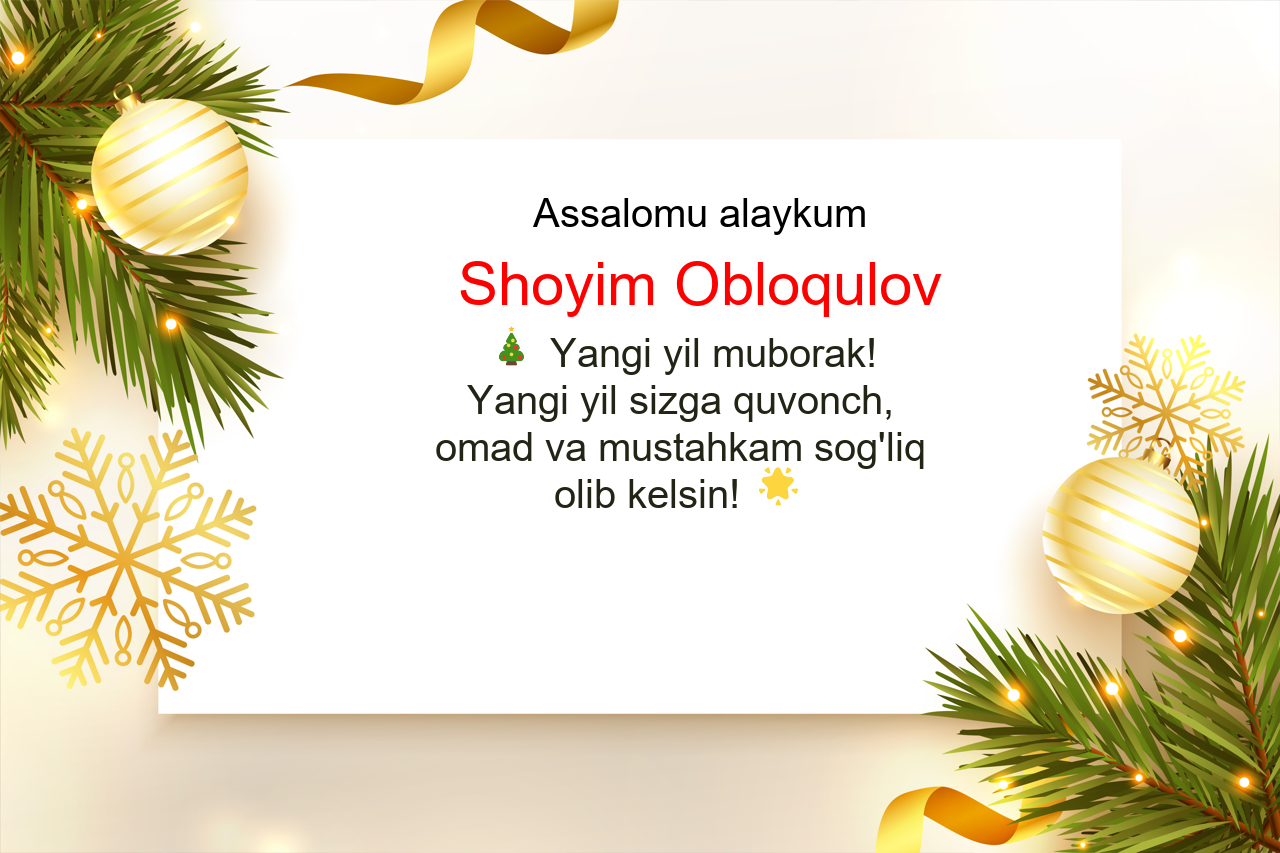
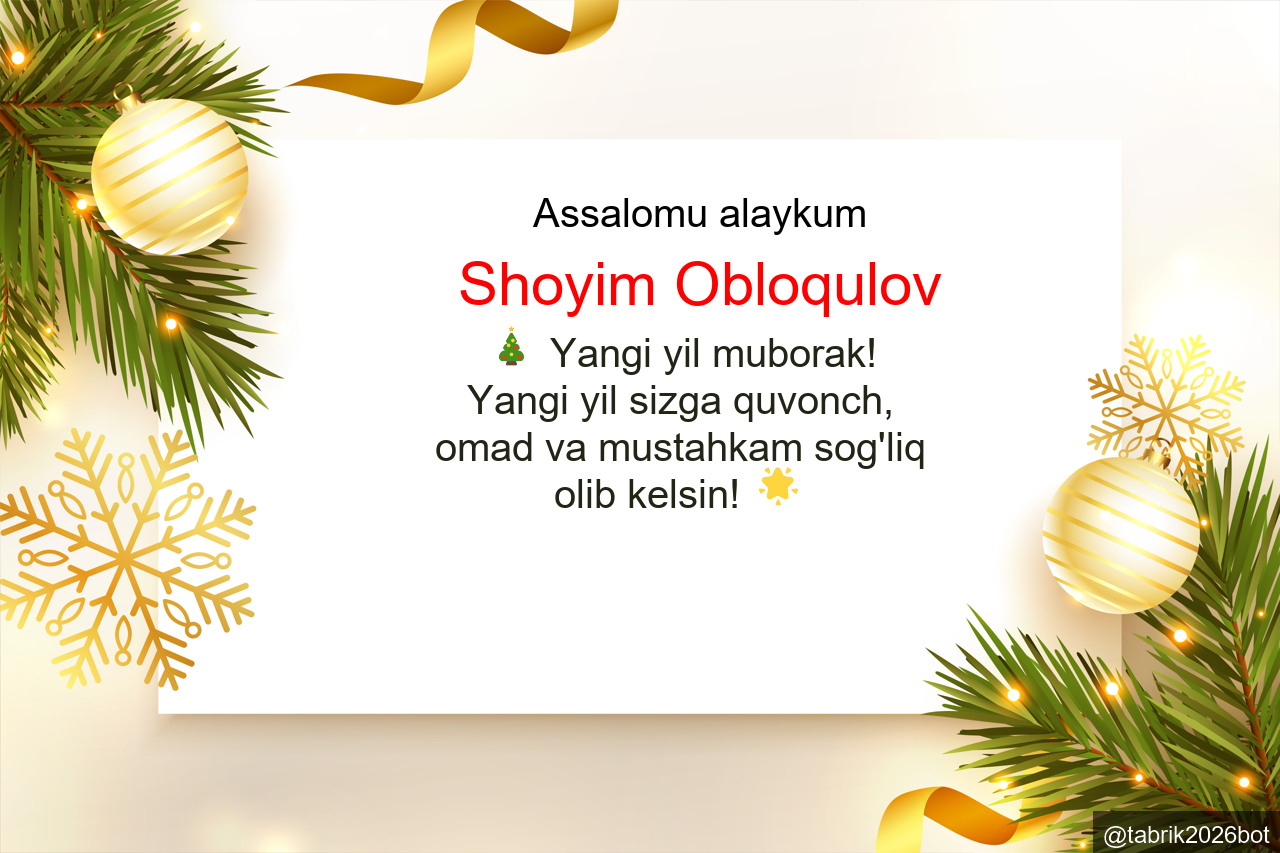
feat: add bot mention to image overlay and update caption in photo response

Changed region(s): [[0.8438, 0.9449, 1.0, 1.0]]

diff --git a/test.py b/test.py
@@ -28,7 +28,7 @@ img_format = img.format
 MAX_SIZE = (1280, 1280)
 img.thumbnail(MAX_SIZE)
 
-# Overlay yaratish (rangli emoji uchun)
+# Overlay yaratish
 overlay = Image.new("RGBA", img.size, (255, 255, 255, 0))
 draw = ImageDraw.Draw(overlay)
 
@@ -43,18 +43,16 @@ font_emoji = ImageFont.truetype("app/fonts/seguiemj.ttf", 40)
 # Emoji ajratish funksiyasi
 # ========================
 def split_text_and_emoji(text):
-    """Matnni oddiy matn va emoji qismlariga ajratadi"""
-    # Emoji pattern (keng range)
     emoji_pattern = re.compile(
         "["
-        "\U0001F600-\U0001F64F"  # emoticons
-        "\U0001F300-\U0001F5FF"  # symbols & pictographs
-        "\U0001F680-\U0001F6FF"  # transport & map symbols
-        "\U0001F1E0-\U0001F1FF"  # flags
+        "\U0001F600-\U0001F64F"
+        "\U0001F300-\U0001F5FF"
+        "\U0001F680-\U0001F6FF"
+        "\U0001F1E0-\U0001F1FF"
         "\U00002702-\U000027B0"
         "\U000024C2-\U0001F251"
-        "\U0001F900-\U0001F9FF"  # supplemental symbols
-        "]+", 
+        "\U0001F900-\U0001F9FF"
+        "]+",
         flags=re.UNICODE
     )
     
@@ -62,14 +60,11 @@ def split_text_and_emoji(text):
     last_end = 0
     
     for match in emoji_pattern.finditer(text):
-        # Emoji oldidagi matn
         if match.start() > last_end:
             parts.append(('text', text[last_end:match.start()]))
-        # Emoji
         parts.append(('emoji', match.group()))
         last_end = match.end()
     
-    # Oxirgi matn
     if last_end < len(text):
         parts.append(('text', text[last_end:]))
     
@@ -79,7 +74,6 @@ def split_text_and_emoji(text):
 # Aralash matn chizish funksiyasi
 # ========================
 def draw_mixed_text(draw, text, x, y, text_font, emoji_font, color):
-    """Matn va emojini aralash holda chizadi"""
     parts = split_text_and_emoji(text)
     current_x = x
     
@@ -87,11 +81,10 @@ def draw_mixed_text(draw, text, x, y, text_font, emoji_font, color):
         if part_type == 'text':
             draw.text((current_x, y), content, font=text_font, fill=color)
             bbox = draw.textbbox((current_x, y), content, font=text_font)
-            current_x = bbox[2]
-        else:  # emoji
+        else:
             draw.text((current_x, y), content, font=emoji_font, embedded_color=True)
             bbox = draw.textbbox((current_x, y), content, font=emoji_font)
-            current_x = bbox[2]
+        current_x = bbox[2]
     
     return current_x
 
@@ -121,14 +114,13 @@ draw.text(
 )
 
 # ========================
-# Text + emoji multi-line (RANGLI)
+# Text + emoji multi-line
 # ========================
 max_chars_per_line = 25
 lines = textwrap.wrap(text, width=max_chars_per_line)
 y_text = template['info_pos'][1]
 
 for line in lines:
-    # Har bir qatorning kengligini hisoblash (markazlash uchun)
     parts = split_text_and_emoji(line)
     total_width = 0
     
@@ -139,26 +131,50 @@ for line in lines:
             bbox = draw.textbbox((0, 0), content, font=font_emoji)
         total_width += (bbox[2] - bbox[0])
     
-    # Markazlangan x koordinata
     start_x = template['info_pos'][0] - total_width // 2
     
-    # Aralash matn va emoji chizish
     draw_mixed_text(
-        draw, 
-        line, 
-        start_x, 
-        y_text, 
-        font_text, 
-        font_emoji, 
+        draw,
+        line,
+        start_x,
+        y_text,
+        font_text,
+        font_emoji,
         template.get('info_color', 'black')
     )
     
-    # Keyingi qatorga o'tish
     bbox = draw.textbbox((0, 0), line, font=font_text)
     y_text += (bbox[3] - bbox[1]) + 10
 
+# ================================
+# PASTKI O‘NGDA @tabrik2026bot YOZUVINI CHIQARISH
+# ================================
+bot_text = "@tabrik2026bot"
+bot_font = ImageFont.truetype("app/fonts/arial/ARIAL.ttf", 24)
+padding = 10
+
+bbox = draw.textbbox((0, 0), bot_text, font=bot_font)
+text_width = bbox[2] - bbox[0]
+text_height = bbox[3] - bbox[1]
+
+x = img.width - text_width - padding
+y = img.height - text_height - padding
+
+bg_padding = 10
+bg_x1 = x - bg_padding
+bg_y1 = y - bg_padding
+bg_x2 = x + text_width + bg_padding
+bg_y2 = y + text_height + bg_padding
+
+draw.rectangle(
+    [bg_x1, bg_y1, bg_x2, bg_y2],
+    fill=(0, 0, 0, 150)
+)
+
+draw.text((x, y), bot_text, font=bot_font, fill="white")
+
 # ========================
-# Overlay va asosiy rasmni birlashtirish
+# Overlay va rasmni birlashtirish
 # ========================
 img = Image.alpha_composite(img, overlay)
 
@@ -169,7 +185,6 @@ output_dir = "out"
 os.makedirs(output_dir, exist_ok=True)
 output_path = os.path.join(output_dir, f"final_{chat_id}.png")
 
-# RGB rejimiga o'tkazish (agar JPEG kerak bo'lsa)
 if img_format == 'JPEG':
     img = img.convert('RGB')
 

diff --git a/main.py b/main.py
@@ -391,6 +391,32 @@ def add_name_to_template(message):
         # Keyingi qatorga o'tish
         bbox = draw.textbbox((0, 0), line, font=font_text)
         y_text += (bbox[3] - bbox[1]) + 10
+    # ================================
+    # PASTKI O‘NGDA @tabrik2026bot YOZUVINI CHIQARISH
+    # ================================
+    bot_text = "@tabrik2026bot"
+    bot_font = ImageFont.truetype("app/fonts/arial/ARIAL.ttf", 24)
+    padding = 10
+
+    bbox = draw.textbbox((0, 0), bot_text, font=bot_font)
+    text_width = bbox[2] - bbox[0]
+    text_height = bbox[3] - bbox[1]
+
+    x = img.width - text_width - padding
+    y = img.height - text_height - padding
+
+    bg_padding = 10
+    bg_x1 = x - bg_padding
+    bg_y1 = y - bg_padding
+    bg_x2 = x + text_width + bg_padding
+    bg_y2 = y + text_height + bg_padding
+
+    draw.rectangle(
+        [bg_x1, bg_y1, bg_x2, bg_y2],
+        fill=(0, 0, 0, 150)
+    )
+
+    draw.text((x, y), bot_text, font=bot_font, fill="white")
 
     img = Image.alpha_composite(img, overlay)
 
@@ -402,7 +428,7 @@ def add_name_to_template(message):
 
     # Telegramga yuborish
     with open(temp_path, "rb") as img_file:
-        bot.send_photo(chat_id, img_file, caption="🎊 Sizning shaxsingizga mos tabrik tayyor! 🎊")
+        bot.send_photo(chat_id, img_file, caption="🎊 Sizga yoqadigan tabrik tayyor! 🎊")
 
     # Agar kerak bo‘lsa faylni o‘chirib tashlash
     if os.path.exists(temp_path):
